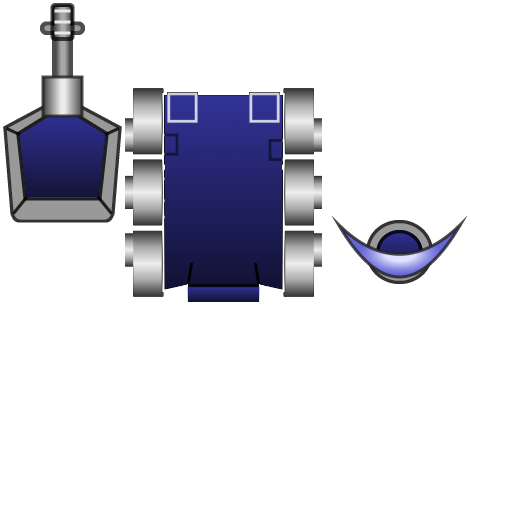
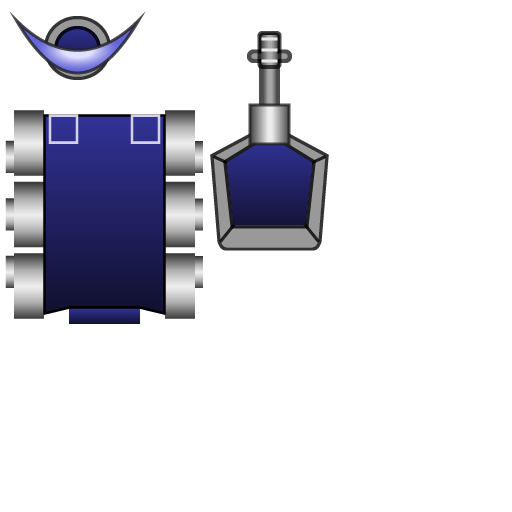
update graphics

Changed region(s): [[0.0, 0.0, 0.6875, 0.6562], [0.6875, 0.4062, 0.9062, 0.5625], [0.25, 0.0312, 0.2812, 0.0625]]

diff --git a/robocode.ui/src/main/java/net/sf/robocode/ui/ImageManager.java b/robocode.ui/src/main/java/net/sf/robocode/ui/ImageManager.java
@@ -239,7 +239,7 @@ public class ImageManager implements IImageManager {
 		if (img == null) {
 			if (USE_GL2_IMAGE) {
 				img = new RenderImageRegion(getColoredGl2RobotImage(color),
-					125, 88, 197, 214, GL2_ROBOT_SCALE);
+					2, 100, 205, 230, GL2_ROBOT_SCALE);
 			} else {
 				img = new RenderImage(ImageUtil.createColouredRobotImage(getBodyImage(), new Color(color, true)));
 			}
@@ -254,7 +254,7 @@ public class ImageManager implements IImageManager {
 		if (img == null) {
 			if (USE_GL2_IMAGE) {
 				img = new RenderImageRegion(getColoredGl2RobotImage(color),
-					2, 2, 121, 300, GL2_ROBOT_SCALE);
+					209, 30, 121, 300, GL2_ROBOT_SCALE);
 			} else {
 				img = new RenderImage(ImageUtil.createColouredRobotImage(getGunImage(), new Color(color, true)));
 			}
@@ -269,7 +269,7 @@ public class ImageManager implements IImageManager {
 		if (img == null) {
 			if (USE_GL2_IMAGE) {
 				img = new RenderImageRegion(getColoredGl2RobotImage(color),
-					324, 206, 151, 96, GL2_ROBOT_SCALE);
+					2, 2, 151, 96, GL2_ROBOT_SCALE);
 			} else {
 				img = new RenderImage(ImageUtil.createColouredRobotImage(getRadarImage(), new Color(color, true)));
 			}
